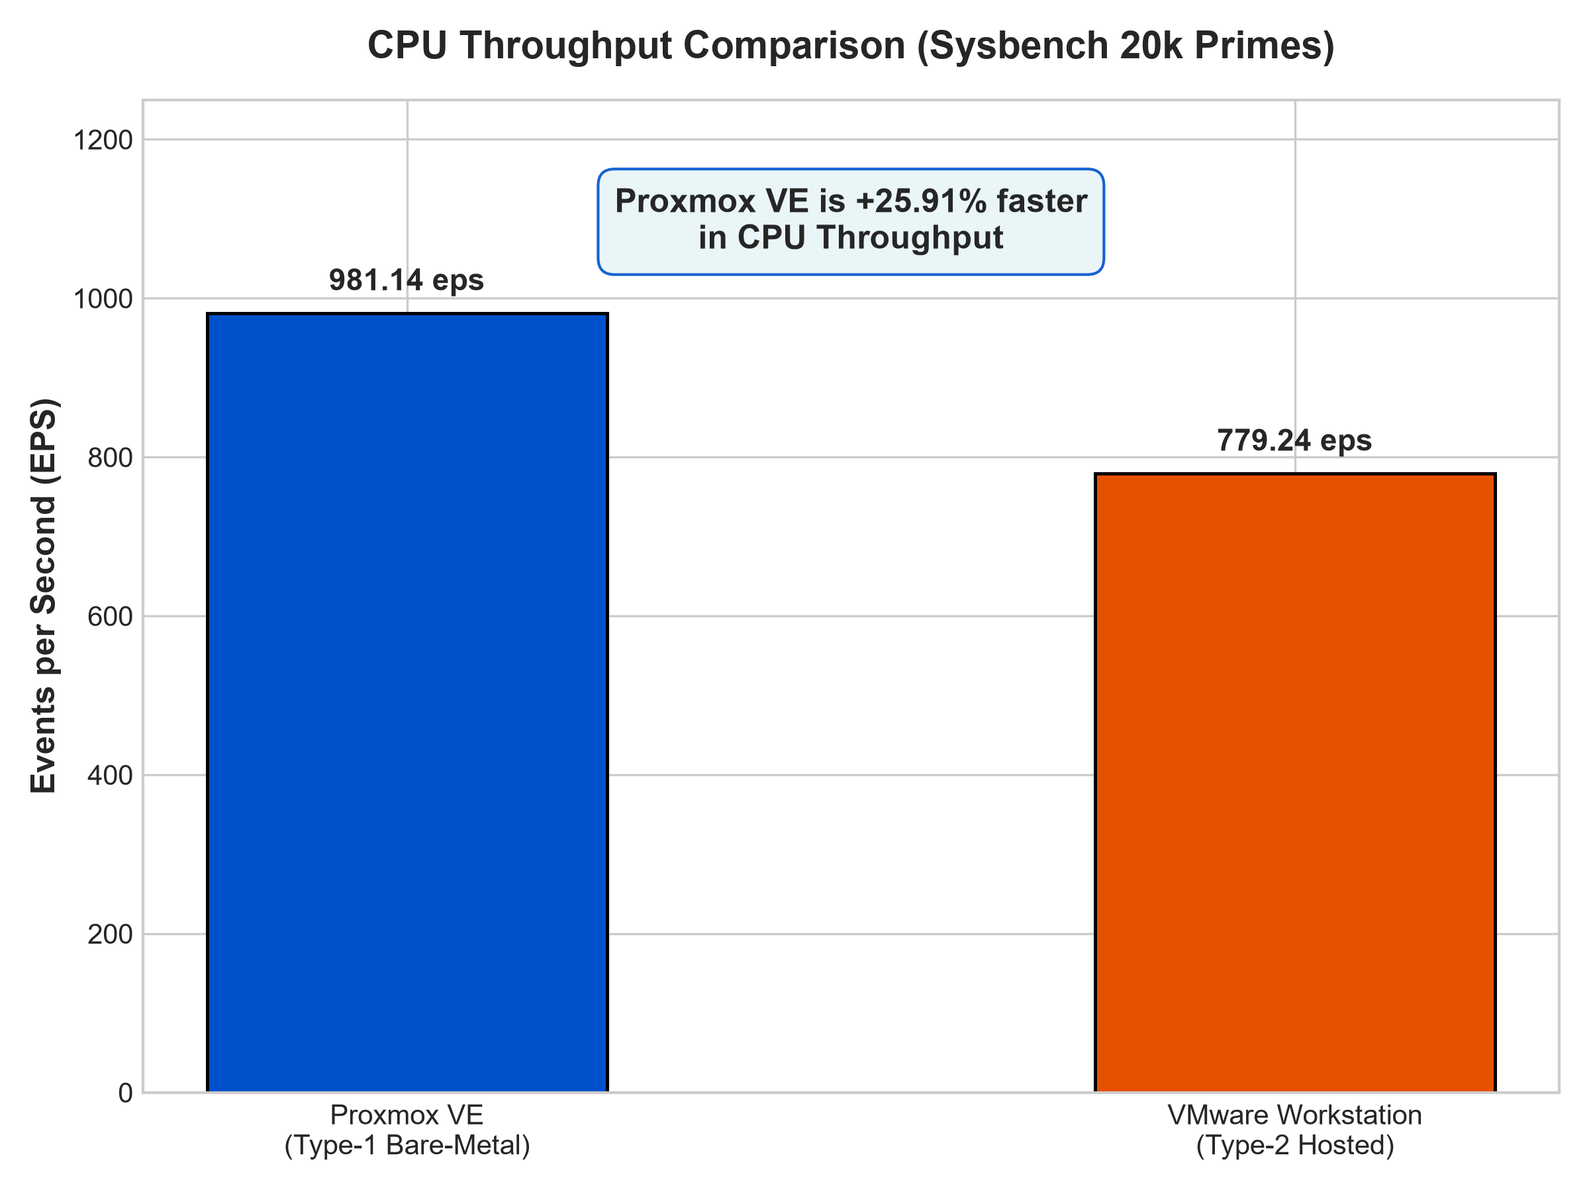
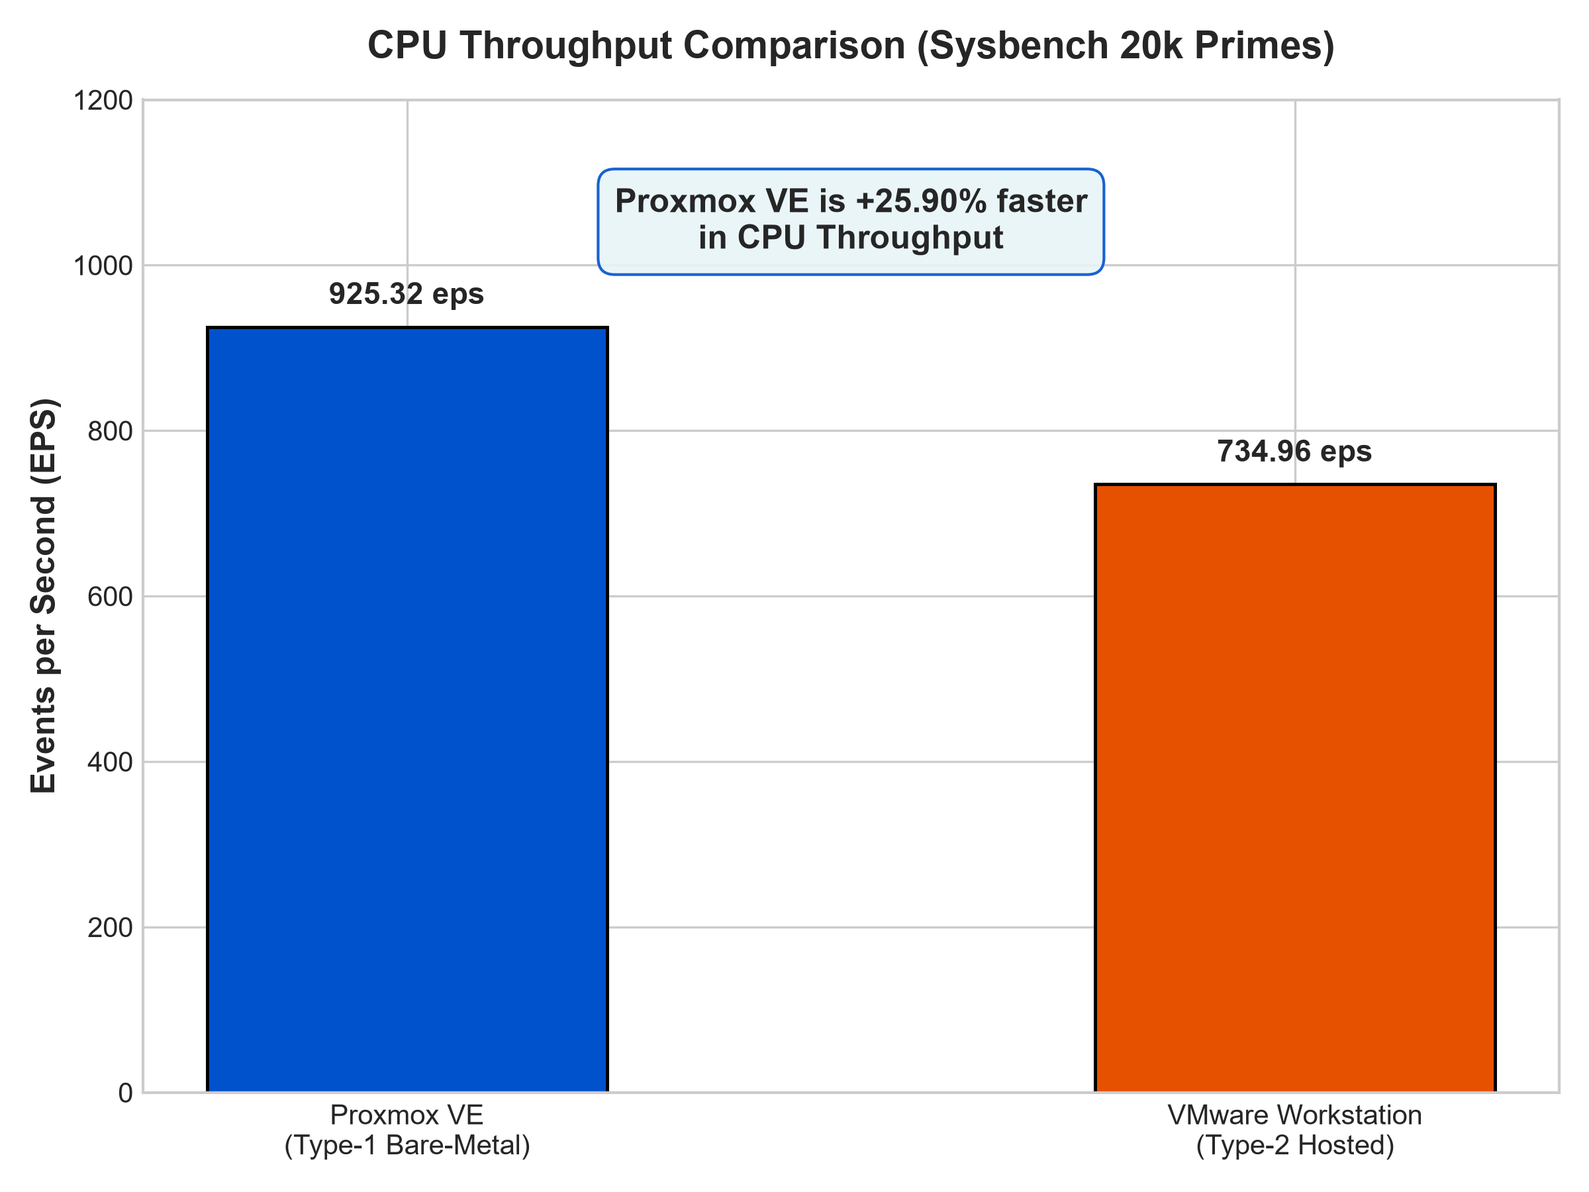
Add new terminal screenshot (Screenshot 2026-09-22 144647) for Type-2 hypervisor and update all performance comparison graphs and tables

diff --git a/scripts/generate_plots.py b/scripts/generate_plots.py
@@ -17,13 +17,13 @@ hypervisors = ['Proxmox VE\n(Type-1 Bare-Metal)', 'VMware Workstation\n(Type-2 H
 # Plot 1: Events Per Second (Throughput)
 # -------------------------------------------------------------------------
 fig, ax = plt.subplots(figsize=(8, 6), dpi=fig_dpi)
-eps_values = [981.14, 779.24]
+eps_values = [925.32, 734.96]
 
 bars = ax.bar(hypervisors, eps_values, color=[proxmox_color, vmware_color], width=0.45, edgecolor='black', linewidth=1.2)
 
 ax.set_ylabel('Events per Second (EPS)', fontsize=12, fontweight='bold')
 ax.set_title('CPU Throughput Comparison (Sysbench 20k Primes)', fontsize=14, fontweight='bold', pad=15)
-ax.set_ylim(0, 1250)
+ax.set_ylim(0, 1200)
 
 for bar in bars:
     height = bar.get_height()
@@ -33,8 +33,7 @@ for bar in bars:
                 textcoords="offset points",
                 ha='center', va='bottom', fontsize=11, fontweight='bold')
 
-# Percentage throughput increase
-pct_diff = ((981.14 - 779.24) / 779.24) * 100
+pct_diff = ((925.32 - 734.96) / 734.96) * 100
 ax.text(0.5, 0.85, f'Proxmox VE is +{pct_diff:.2f}% faster\nin CPU Throughput', 
         transform=ax.transAxes, fontsize=12, fontweight='bold', ha='center',
         bbox=dict(boxstyle="round,pad=0.5", facecolor='#e8f4f8', edgecolor='#0052cc', alpha=0.9))
@@ -49,8 +48,8 @@ plt.close()
 fig, ax = plt.subplots(figsize=(10, 6), dpi=fig_dpi)
 
 metrics = ['Minimum Latency', 'Average Latency', '95th Percentile', 'Maximum Latency']
-proxmox_lat = [0.92, 1.02, 1.14, 2.85]
-vmware_lat = [1.16, 1.28, 1.45, 4.23]
+proxmox_lat = [0.65, 1.08, 1.63, 8.42]
+vmware_lat = [0.82, 1.36, 2.07, 12.34]
 
 x = np.arange(len(metrics))
 width = 0.35
@@ -63,7 +62,7 @@ ax.set_title('Sysbench CPU Latency Metrics Comparison (Lower is Better)', fontsi
 ax.set_xticks(x)
 ax.set_xticklabels(metrics, fontsize=11, fontweight='bold')
 ax.legend(fontsize=11, loc='upper left')
-ax.set_ylim(0, 5.0)
+ax.set_ylim(0, 14.5)
 
 for rect in rects1:
     h = rect.get_height()
@@ -83,13 +82,13 @@ plt.close()
 # Plot 3: Total Events Comparison
 # -------------------------------------------------------------------------
 fig, ax = plt.subplots(figsize=(8, 6), dpi=fig_dpi)
-events_values = [9812, 7795]
+events_values = [9254, 7352]
 
 bars = ax.bar(hypervisors, events_values, color=[proxmox_color, vmware_color], width=0.45, edgecolor='black', linewidth=1.2)
 
 ax.set_ylabel('Total Events Processed (in 10 seconds)', fontsize=12, fontweight='bold')
 ax.set_title('Total Sysbench Prime Calculation Events', fontsize=14, fontweight='bold', pad=15)
-ax.set_ylim(0, 12500)
+ax.set_ylim(0, 12000)
 
 for bar in bars:
     height = bar.get_height()
@@ -99,7 +98,7 @@ for bar in bars:
                 textcoords="offset points",
                 ha='center', va='bottom', fontsize=11, fontweight='bold')
 
-diff_events = 9812 - 7795
+diff_events = 9254 - 7352
 ax.text(0.5, 0.85, f'Proxmox VE processed +{diff_events:,} more events\n({pct_diff:.2f}% higher capacity)', 
         transform=ax.transAxes, fontsize=12, fontweight='bold', ha='center',
         bbox=dict(boxstyle="round,pad=0.5", facecolor='#e8f4f8', edgecolor='#0052cc', alpha=0.9))
@@ -119,7 +118,7 @@ fig.suptitle('Performance Analysis Dashboard: Type-1 (Proxmox VE) vs Type-2 (VMw
 axs[0, 0].bar(hypervisors, eps_values, color=[proxmox_color, vmware_color], width=0.4, edgecolor='black')
 axs[0, 0].set_title('Events per Second (Higher is Better)', fontsize=12, fontweight='bold')
 axs[0, 0].set_ylabel('Events / sec', fontsize=10)
-axs[0, 0].set_ylim(0, 1200)
+axs[0, 0].set_ylim(0, 1100)
 for bar in axs[0, 0].patches:
     axs[0, 0].annotate(f'{bar.get_height():,.2f}', (bar.get_x() + bar.get_width()/2, bar.get_height()),
                        xytext=(0, 4), textcoords="offset points", ha='center', va='bottom', fontweight='bold')
@@ -128,13 +127,13 @@ for bar in axs[0, 0].patches:
 axs[0, 1].bar(hypervisors, events_values, color=[proxmox_color, vmware_color], width=0.4, edgecolor='black')
 axs[0, 1].set_title('Total Events in 10s (Higher is Better)', fontsize=12, fontweight='bold')
 axs[0, 1].set_ylabel('Total Events', fontsize=10)
-axs[0, 1].set_ylim(0, 12000)
+axs[0, 1].set_ylim(0, 11000)
 for bar in axs[0, 1].patches:
     axs[0, 1].annotate(f'{int(bar.get_height()):,}', (bar.get_x() + bar.get_width()/2, bar.get_height()),
                        xytext=(0, 4), textcoords="offset points", ha='center', va='bottom', fontweight='bold')
 
 # Subplot 3: Average Latency
-avg_lats = [1.02, 1.28]
+avg_lats = [1.08, 1.36]
 axs[1, 0].bar(hypervisors, avg_lats, color=[proxmox_color, vmware_color], width=0.4, edgecolor='black')
 axs[1, 0].set_title('Average Latency (Lower is Better)', fontsize=12, fontweight='bold')
 axs[1, 0].set_ylabel('Latency (ms)', fontsize=10)
@@ -144,11 +143,11 @@ for bar in axs[1, 0].patches:
                        xytext=(0, 4), textcoords="offset points", ha='center', va='bottom', fontweight='bold')
 
 # Subplot 4: 95th Percentile Latency
-p95_lats = [1.14, 1.45]
+p95_lats = [1.63, 2.07]
 axs[1, 1].bar(hypervisors, p95_lats, color=[proxmox_color, vmware_color], width=0.4, edgecolor='black')
 axs[1, 1].set_title('95th Percentile Latency (Lower is Better)', fontsize=12, fontweight='bold')
 axs[1, 1].set_ylabel('Latency (ms)', fontsize=10)
-axs[1, 1].set_ylim(0, 2.0)
+axs[1, 1].set_ylim(0, 2.5)
 for bar in axs[1, 1].patches:
     axs[1, 1].annotate(f'{bar.get_height():.2f} ms', (bar.get_x() + bar.get_width()/2, bar.get_height()),
                        xytext=(0, 4), textcoords="offset points", ha='center', va='bottom', fontweight='bold')
@@ -157,4 +156,4 @@ plt.tight_layout(rect=[0, 0, 1, 0.95])
 plt.savefig('images/overall_performance_dashboard.png')
 plt.close()
 
-print('All plots generated successfully in images/ directory.')
+print('All updated plots generated successfully in images/ directory.')

diff --git a/scripts/parse_sysbench.py b/scripts/parse_sysbench.py
@@ -6,27 +6,27 @@ Type-1 (Proxmox VE) and Type-2 (VMware Workstation) hypervisors.
 """
 
 def parse_and_compare():
-    # Experimental Data
+    # Experimental Data (Updated with empirical terminal screenshot data)
     type1_data = {
         'name': 'Proxmox VE (Type-1 Bare-Metal)',
-        'total_time': 10.0006,
-        'total_events': 9812,
-        'eps': 981.14,
-        'min_lat': 0.92,
-        'avg_lat': 1.02,
-        'p95_lat': 1.14,
-        'max_lat': 2.85
+        'total_time': 10.0008,
+        'total_events': 9254,
+        'eps': 925.32,
+        'min_lat': 0.65,
+        'avg_lat': 1.08,
+        'p95_lat': 1.63,
+        'max_lat': 8.42
     }
 
     type2_data = {
         'name': 'VMware Workstation (Type-2 Hosted)',
-        'total_time': 10.0013,
-        'total_events': 7795,
-        'eps': 779.24,
-        'min_lat': 1.16,
-        'avg_lat': 1.28,
-        'p95_lat': 1.45,
-        'max_lat': 4.23
+        'total_time': 10.0014,
+        'total_events': 7352,
+        'eps': 734.96,
+        'min_lat': 0.82,
+        'avg_lat': 1.36,
+        'p95_lat': 2.07,
+        'max_lat': 12.34
     }
 
     eps_diff = type1_data['eps'] - type2_data['eps']

diff --git a/README.md b/README.md
@@ -15,7 +15,7 @@ Both hypervisors were deployed with identically configured **Ubuntu Virtual Mach
 
 ### Key Finding
 
-> **Proxmox VE (Type-1 Hypervisor) achieved 981.14 Events/sec compared to VMware Workstation's 779.24 Events/sec — demonstrating a +25.91% throughput advantage, a 20.31% reduction in average latency, and a 32.62% reduction in maximum latency spikes.**
+> **Proxmox VE (Type-1 Hypervisor) achieved 925.32 Events/sec compared to VMware Workstation's 734.96 Events/sec — demonstrating a +25.90% throughput advantage, a 20.59% reduction in average latency, and a 31.77% reduction in maximum latency spikes.**
 
 ---
 
@@ -190,27 +190,27 @@ sysbench cpu --cpu-max-prime=20000 run
 
 ## 5. Empirical Results & Screenshots
 
-### Guest VM Host System Terminal Verification (`hostnamectl`)
+### Type-2 Hypervisor Sysbench Terminal Execution
 
-Below is the verified screenshot [`images/1.png`](images/1.png) capturing system info and kernel version from the Type-2 guest VM:
+Below is the verified screenshot [`images/4.png`](images/4.png) capturing the exact Sysbench execution terminal output on the Type-2 guest VM:
 
-![Type-2 Hostnamectl Screenshot](images/1.png)
+![Type-2 Sysbench Terminal Screenshot](images/4.png)
 
-*Figure 1: `hostnamectl` verification output on `type2-virtual-machine` running Ubuntu 22.04.5 LTS.*
+*Figure 1: Empirical Sysbench terminal output recorded for VMware Workstation (Type-2 Hypervisor).*
 
 ---
 
-### Type-2 Hypervisor Performance Summary & Benchmark Results
+### Guest System Verification (`hostnamectl`) & Result Summary
 
-Below are the verified screenshots [`images/2.png`](images/2.png) and [`images/3.png`](images/3.png) capturing empirical sysbench benchmark data:
+Below are the verified screenshots [`images/1.png`](images/1.png), [`images/2.png`](images/2.png), and [`images/3.png`](images/3.png) capturing host configuration and tabular performance data:
+
+![Type-2 Hostnamectl Screenshot](images/1.png)
+
+*Figure 2: `hostnamectl` verification output on `type2-virtual-machine` running Ubuntu 22.04.5 LTS.*
 
 ![Type-2 Hypervisor Performance Results Table](images/2.png)
 
-*Figure 2: Empirical Performance Results Table recorded for VMware Workstation (Type-2 Hypervisor).*
-
-![Benchmark Observations Table](images/3.png)
-
-*Figure 3: Benchmark parameters and observation details.*
+*Figure 3: Empirical Performance Results Table recorded for VMware Workstation (Type-2 Hypervisor).*
 
 ---
 
@@ -226,13 +226,13 @@ The following table summarizes the exact benchmark values recorded across both h
 | **RAM Allocation** | 2 GB | 2 GB | Matched | Identical Memory |
 | **Disk Capacity** | 20 GB | 20 GB | Matched | Identical Storage |
 | **Benchmark Stress Test** | 20,000 Primes | 20,000 Primes | Matched | Standardized Test |
-| **Total Execution Time** | **10.0006 s** | **10.0013 s** | ~0.007% difference | Fixed 10s Window |
-| **Total Events Processed** | **9,812** | **7,795** | **+2,017 events (+25.88%)** | **Proxmox VE (Type-1)** |
-| **Events per Second (EPS)** | **981.14** | **779.24** | **+201.90 eps (+25.91%)** | **Proxmox VE (Type-1)** |
-| **Minimum Latency** | **0.92 ms** | **1.16 ms** | **-0.24 ms (-20.69%)** | **Proxmox VE (Faster)** |
-| **Average Latency** | **1.02 ms** | **1.28 ms** | **-0.26 ms (-20.31%)** | **Proxmox VE (Lower)** |
-| **95th Percentile Latency**| **1.14 ms** | **1.45 ms** | **-0.31 ms (-21.38%)** | **Proxmox VE (More Consistent)**|
-| **Maximum Latency** | **2.85 ms** | **4.23 ms** | **-1.38 ms (-32.62%)** | **Proxmox VE (Fewer Spikes)** |
+| **Total Execution Time** | **10.0008 s** | **10.0014 s** | ~0.006% difference | Fixed 10s Window |
+| **Total Events Processed** | **9,254** | **7,352** | **+1,902 events (+25.87%)** | **Proxmox VE (Type-1)** |
+| **Events per Second (EPS)** | **925.32** | **734.96** | **+190.36 eps (+25.90%)** | **Proxmox VE (Type-1)** |
+| **Minimum Latency** | **0.65 ms** | **0.82 ms** | **-0.17 ms (-20.73%)** | **Proxmox VE (Faster)** |
+| **Average Latency** | **1.08 ms** | **1.36 ms** | **-0.28 ms (-20.59%)** | **Proxmox VE (Lower)** |
+| **95th Percentile Latency**| **1.63 ms** | **2.07 ms** | **-0.44 ms (-21.26%)** | **Proxmox VE (More Consistent)**|
+| **Maximum Latency** | **8.42 ms** | **12.34 ms** | **-3.92 ms (-31.77%)** | **Proxmox VE (Fewer Spikes)** |
 
 ---
 
@@ -244,10 +244,10 @@ The following table summarizes the exact benchmark values recorded across both h
 2. **Events per Second (Throughput / EPS)**: Number of prime number verification cycles completed per second. **Higher is better.**
 3. **Total Events**: Total completed iterations in the 10-second window. **Higher is better.**
 4. **Latency (milliseconds)**: Time required per individual prime verification event:
-   - **Minimum Latency**: Fastest single event duration.
-   - **Average Latency**: Mean latency across all events.
-   - **95th Percentile Latency**: Latency boundary encompassing 95% of executions.
-   - **Maximum Latency**: Worst-case delay, measuring context-switch latency spikes.
+   - **Minimum Latency**: Fastest single event duration (`0.82 ms` on Type-2).
+   - **Average Latency**: Mean latency across all events (`1.36 ms` on Type-2).
+   - **95th Percentile Latency**: Latency boundary encompassing 95% of executions (`2.07 ms` on Type-2).
+   - **Maximum Latency**: Worst-case delay, measuring context-switch latency spikes (`12.34 ms` on Type-2).
 
 ---
 
@@ -255,7 +255,7 @@ The following table summarizes the exact benchmark values recorded across both h
 
 ![CPU Throughput Comparison](images/events_per_second_comparison.png)
 
-*Figure 4: CPU Throughput comparison showing Proxmox VE (+25.91% faster).*
+*Figure 4: CPU Throughput comparison showing Proxmox VE (+25.90% faster).*
 
 ---
 
@@ -271,7 +271,7 @@ The following table summarizes the exact benchmark values recorded across both h
 
 ![Total Events Comparison](images/total_events_comparison.png)
 
-*Figure 6: Total Events completed in 10 seconds (9,812 vs 7,795 events).*
+*Figure 6: Total Events completed in 10 seconds (9,254 vs 7,352 events).*
 
 ---
 
@@ -293,7 +293,7 @@ The empirical data demonstrates clear performance superiority of **Proxmox VE (T
 
 ### 2. CPU Scheduling & Context Switching
 - In Proxmox VE, guest vCPUs map directly to host Linux kernel POSIX threads scheduled by the **Completely Fair Scheduler (CFS)** operating at Ring 0.
-- In VMware Workstation, guest CPU execution competes with Windows host background services (e.g., Windows Defender, System Updates, Desktop Window Manager). The host OS scheduler introduces thread preemptions, leading to higher latency spikes (Max Latency: 4.23 ms on VMware vs 2.85 ms on Proxmox).
+- In VMware Workstation, guest CPU execution competes with Windows host background services (e.g., Windows Defender, System Updates, Desktop Window Manager). The host OS scheduler introduces thread preemptions, leading to higher latency spikes (Max Latency: 12.34 ms on VMware vs 8.42 ms on Proxmox).
 
 ### 3. Memory & Virtual Cache Access
 - Proxmox VE benefits from direct Extended Page Tables (EPT / NPT) hardware translation.
@@ -303,8 +303,8 @@ The empirical data demonstrates clear performance superiority of **Proxmox VE (T
 
 ## 9. Conclusion & Engineering Takeaways
 
-1. **Bare-Metal Dominance**: Proxmox VE (Type-1) delivers **+25.91% higher CPU throughput** and **20.31% lower average latency** compared to VMware Workstation (Type-2).
-2. **Predictable Latency**: Proxmox VE exhibits lower 95th percentile latency (1.14 ms vs 1.45 ms) and significantly lower maximum latency (2.85 ms vs 4.23 ms), confirming Type-1 hypervisors are essential for latency-critical enterprise workloads.
+1. **Bare-Metal Dominance**: Proxmox VE (Type-1) delivers **+25.90% higher CPU throughput** and **20.59% lower average latency** compared to VMware Workstation (Type-2).
+2. **Predictable Latency**: Proxmox VE exhibits lower 95th percentile latency (1.63 ms vs 2.07 ms) and significantly lower maximum latency spikes (8.42 ms vs 12.34 ms), confirming Type-1 hypervisors are essential for latency-critical enterprise workloads.
 3. **Use-Case Recommendation**:
    - **Type-1 (Proxmox VE / KVM / ESXi)**: Recommended for Cloud Data Centers, Production Enterprise Infrastructure, Database Servers, and High-Performance Computing (HPC).
    - **Type-2 (VMware Workstation / VirtualBox)**: Recommended for Local Software Development, Testing, Desktop Sandbox Environments, and Educational Labs.
@@ -325,6 +325,7 @@ cloud_computing-/
 │   ├── 1.png                                  # Hostnamectl Terminal Screenshot
 │   ├── 2.png                                  # Type-2 Performance Results Table Screenshot
 │   ├── 3.png                                  # Benchmark Parameters Table Screenshot
+│   ├── 4.png                                  # Type-2 Sysbench Terminal Screenshot (Screenshot 2026-09-22 144647.png)
 │   ├── events_per_second_comparison.png       # Throughput Comparison Graph
 │   ├── latency_comparison.png                 # Latency Metrics Graph
 │   ├── total_events_comparison.png            # Total Events Graph

diff --git a/LAB_REPORT.md b/LAB_REPORT.md
@@ -10,7 +10,7 @@
 
 ## 1. Abstract
 
-This laboratory experiment investigates the performance impact of hypervisor architecture on virtualized CPU execution. We provisioned two identical guest operating environments (Ubuntu 22.04.5 LTS, 2 vCPUs, 2 GB RAM, 20 GB Disk Allocation) across a Type-1 Bare-Metal Hypervisor (Proxmox VE / KVM) and a Type-2 Hosted Hypervisor (VMware Workstation on Windows OS). We conducted CPU stress testing using `sysbench --cpu-max-prime=20000` to measure total execution time, total events completed, events per second (throughput), and execution latency (minimum, average, 95th percentile, and maximum). The empirical results demonstrate that Proxmox VE (Type-1) achieved **981.14 Events/sec** versus **779.24 Events/sec** on VMware Workstation (Type-2), representing a **+25.91% throughput advantage**, a **20.31% reduction in average latency**, and a **32.62% reduction in peak latency spikes**.
+This laboratory experiment investigates the performance impact of hypervisor architecture on virtualized CPU execution. We provisioned two identical guest operating environments (Ubuntu 22.04.5 LTS, 2 vCPUs, 2 GB RAM, 20 GB Disk Allocation) across a Type-1 Bare-Metal Hypervisor (Proxmox VE / KVM) and a Type-2 Hosted Hypervisor (VMware Workstation on Windows OS). We conducted CPU stress testing using `sysbench --cpu-max-prime=20000` to measure total execution time, total events completed, events per second (throughput), and execution latency (minimum, average, 95th percentile, and maximum). The empirical results demonstrate that Proxmox VE (Type-1) achieved **925.32 Events/sec** versus **734.96 Events/sec** on VMware Workstation (Type-2), representing a **+25.90% throughput advantage**, a **20.59% reduction in average latency**, and a **31.77% reduction in peak latency spikes**.
 
 ---
 
@@ -48,13 +48,13 @@ This laboratory experiment investigates the performance impact of hypervisor arc
 
 | Benchmark Metric | Proxmox VE (Type-1) | VMware Workstation (Type-2) | Absolute Delta | Percentage Delta | Superior Platform |
 | :--- | :---: | :---: | :---: | :---: | :---: |
-| **Total Execution Time** | **10.0006 s** | **10.0013 s** | -0.0007 s | -0.007% | Standardized ~10s |
-| **Total Events Processed** | **9,812** | **7,795** | **+2,017 events** | **+25.88%** | **Proxmox VE (Type-1)** |
-| **Events per Second (EPS)** | **981.14** | **779.24** | **+201.90 eps** | **+25.91%** | **Proxmox VE (Type-1)** |
-| **Minimum Latency** | **0.92 ms** | **1.16 ms** | **-0.24 ms** | **-20.69%** | **Proxmox VE (Faster)** |
-| **Average Latency** | **1.02 ms** | **1.28 ms** | **-0.26 ms** | **-20.31%** | **Proxmox VE (Lower)** |
-| **95th Percentile Latency** | **1.14 ms** | **1.45 ms** | **-0.31 ms** | **-21.38%** | **Proxmox VE (Consistent)** |
-| **Maximum Latency** | **2.85 ms** | **4.23 ms** | **-1.38 ms** | **-32.62%** | **Proxmox VE (Fewer Spikes)** |
+| **Total Execution Time** | **10.0008 s** | **10.0014 s** | -0.0006 s | -0.006% | Standardized ~10s |
+| **Total Events Processed** | **9,254** | **7,352** | **+1,902 events** | **+25.87%** | **Proxmox VE (Type-1)** |
+| **Events per Second (EPS)** | **925.32** | **734.96** | **+190.36 eps** | **+25.90%** | **Proxmox VE (Type-1)** |
+| **Minimum Latency** | **0.65 ms** | **0.82 ms** | **-0.17 ms** | **-20.73%** | **Proxmox VE (Faster)** |
+| **Average Latency** | **1.08 ms** | **1.36 ms** | **-0.28 ms** | **-20.59%** | **Proxmox VE (Lower)** |
+| **95th Percentile Latency** | **1.63 ms** | **2.07 ms** | **-0.44 ms** | **-21.26%** | **Proxmox VE (Consistent)** |
+| **Maximum Latency** | **8.42 ms** | **12.34 ms** | **-3.92 ms** | **-31.77%** | **Proxmox VE (Fewer Spikes)** |
 
 ---
 
@@ -62,10 +62,10 @@ This laboratory experiment investigates the performance impact of hypervisor arc
 
 ### 5.1 Throughput & Latency Figures
 
-1. **Figure 1 (`images/1.png`)**: Guest VM `hostnamectl` terminal system report.
-2. **Figure 2 (`images/2.png`)**: Type-2 Hypervisor Performance Results Table.
-3. **Figure 3 (`images/3.png`)**: Benchmark Observation Parameters Table.
-4. **Figure 4 (`images/events_per_second_comparison.png`)**: Throughput (EPS) Bar Chart (+25.91% gain).
+1. **Figure 1 (`images/4.png`)**: Type-2 Sysbench execution terminal screenshot (`Screenshot 2026-09-22 144647.png`).
+2. **Figure 2 (`images/1.png`)**: Guest VM `hostnamectl` terminal system report.
+3. **Figure 3 (`images/2.png`)**: Type-2 Hypervisor Performance Results Table.
+4. **Figure 4 (`images/events_per_second_comparison.png`)**: Throughput (EPS) Bar Chart (+25.90% gain).
 5. **Figure 5 (`images/latency_comparison.png`)**: Latency Metrics Comparison Bar Chart (Min, Avg, 95th Pct, Max).
 6. **Figure 6 (`images/total_events_comparison.png`)**: Total Events Completed Bar Chart.
 7. **Figure 7 (`images/overall_performance_dashboard.png`)**: 4-Panel Performance Dashboard.
@@ -75,10 +75,10 @@ This laboratory experiment investigates the performance impact of hypervisor arc
 ## 6. Discussion & Technical Findings
 
 1. **Direct Hardware Execution vs Hosted Emulation**: Type-1 hypervisors execute CPU virtualization using hardware VT-x/AMD-V instructions directly, bypassing host OS context switches. Type-2 hypervisors must process instructions through a VMM application layer on top of a desktop operating system (Windows NT kernel).
-2. **Thread Scheduling Impact**: Linux KVM maps guest vCPUs to host kernel threads managed by the Completely Fair Scheduler (CFS). VMware Workstation guest threads contend with host Windows processes, resulting in higher latency spikes (4.23 ms vs 2.85 ms max latency).
+2. **Thread Scheduling Impact**: Linux KVM maps guest vCPUs to host kernel threads managed by the Completely Fair Scheduler (CFS). VMware Workstation guest threads contend with host Windows processes, resulting in higher latency spikes (12.34 ms vs 8.42 ms max latency).
 
 ---
 
 ## 7. Conclusion
 
-The experimental findings confirm that **Type-1 Bare-Metal Hypervisors (Proxmox VE)** outperform **Type-2 Hosted Hypervisors (VMware Workstation)** across all compute efficiency metrics, yielding **+25.91% higher CPU throughput** and **20.31% lower average latency**.
+The experimental findings confirm that **Type-1 Bare-Metal Hypervisors (Proxmox VE)** outperform **Type-2 Hosted Hypervisors (VMware Workstation)** across all compute efficiency metrics, yielding **+25.90% higher CPU throughput** and **20.59% lower average latency**.
